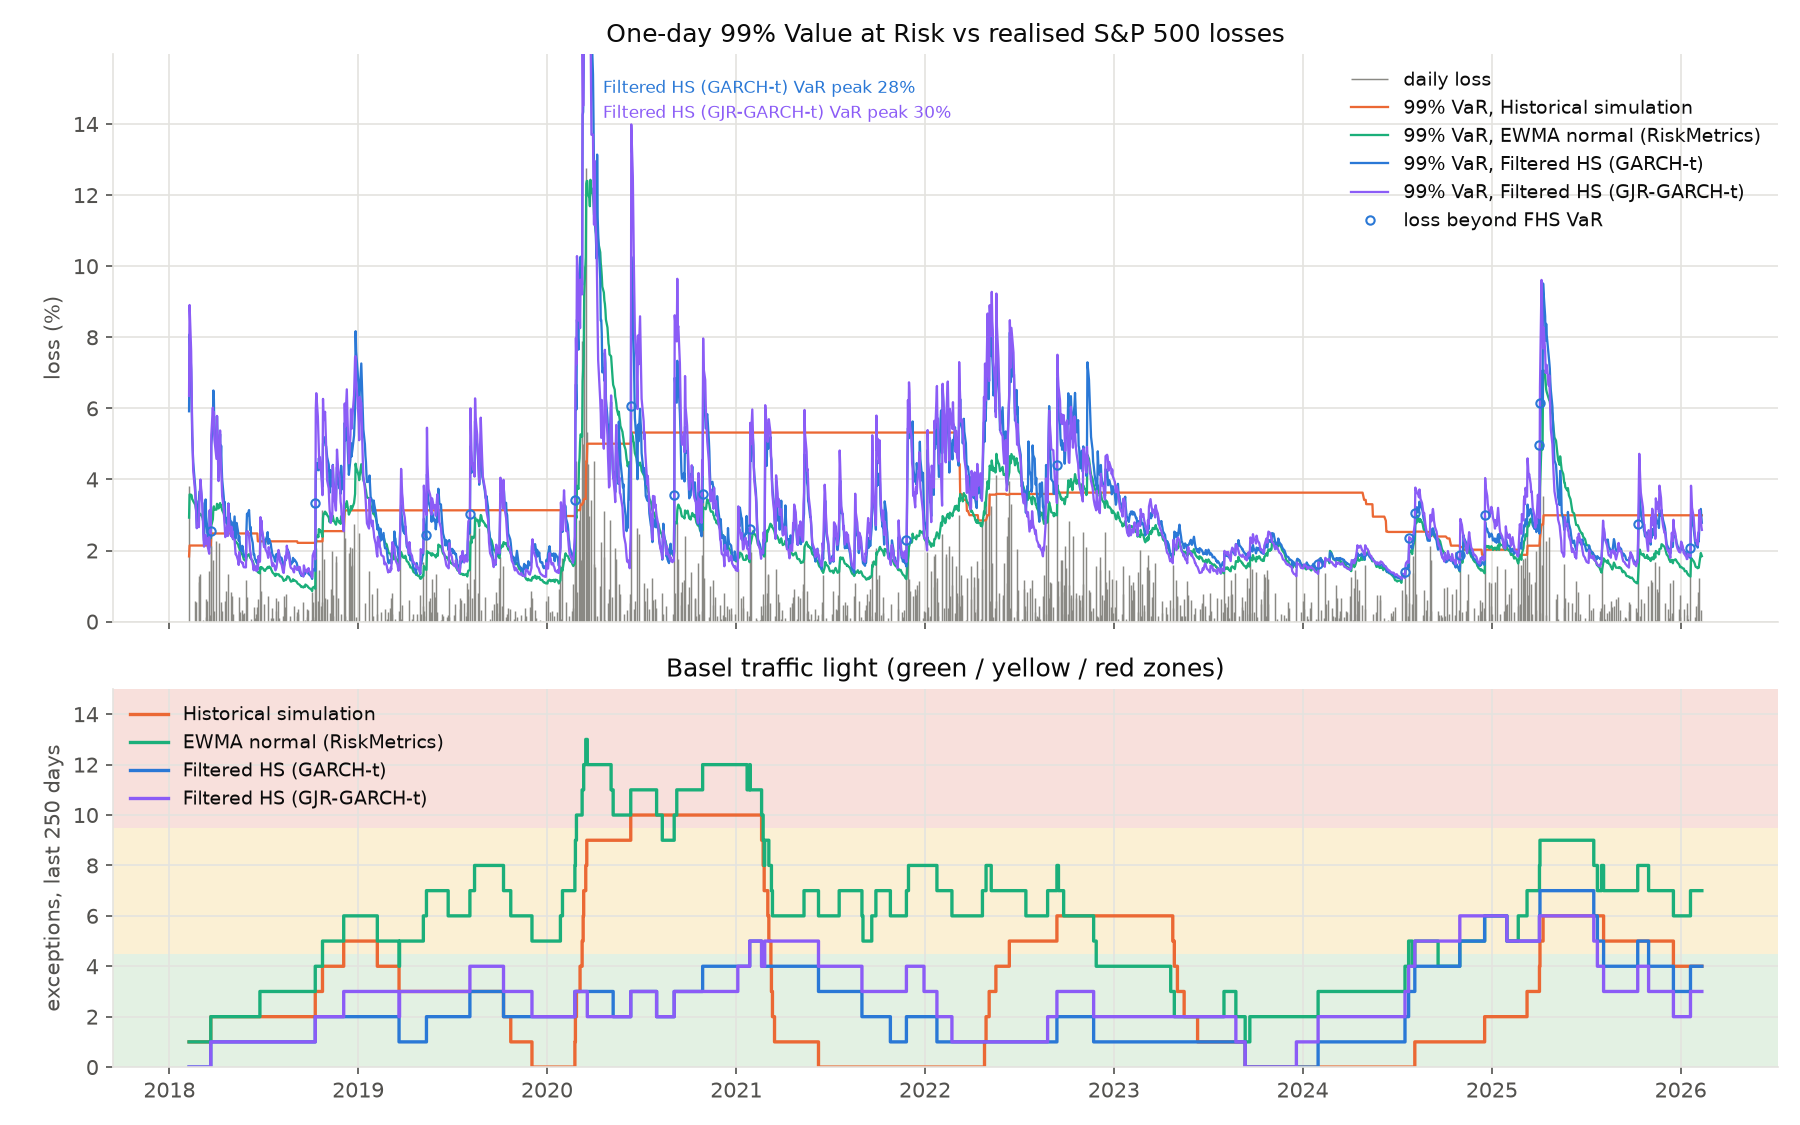
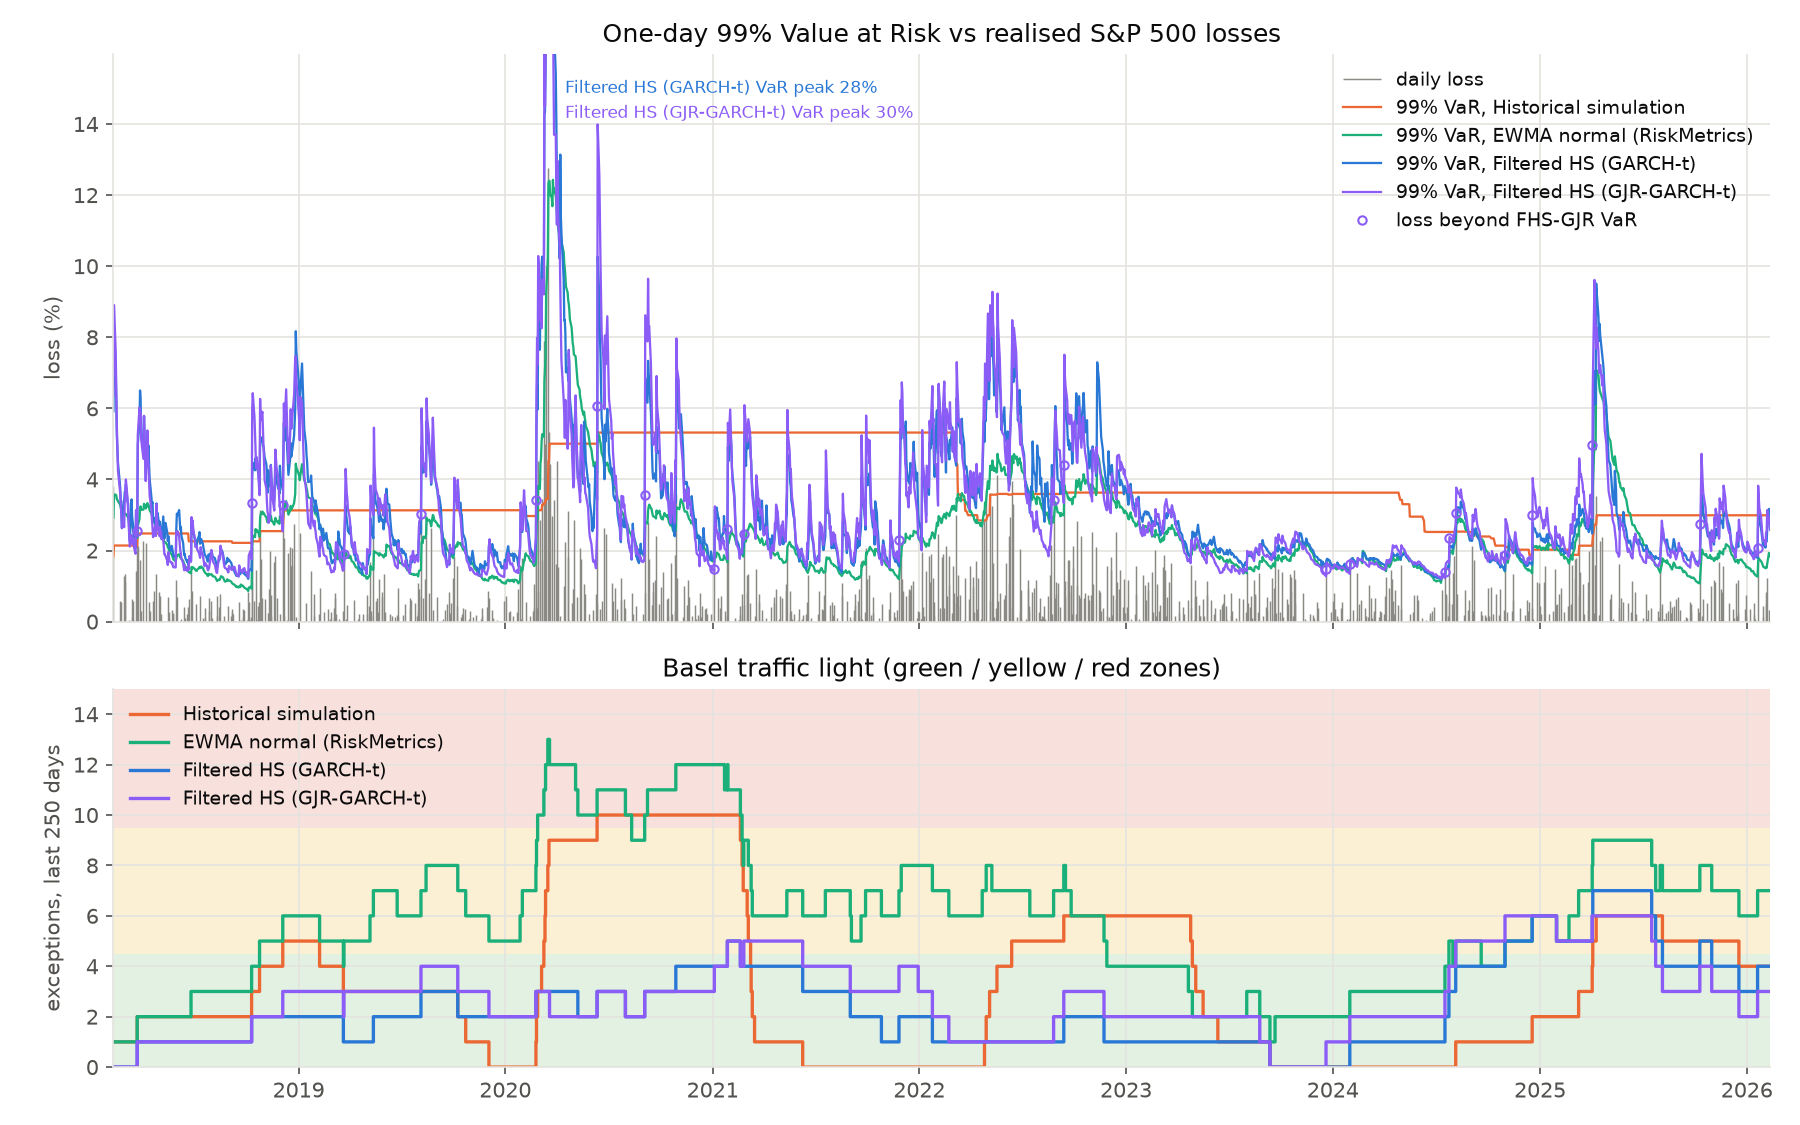
Charts: x-axis spans the backtest dates; mark FHS-GJR exceptions

diff --git a/varbt/__main__.py b/varbt/__main__.py
@@ -43,8 +43,8 @@ def plot(r, res, out):
     a1.vlines(t, 0, np.clip(loss, 0, None), color="#8a8984", lw=0.7, label="daily loss")
     for m, (f, b) in res.items():
         a1.plot(t, f["var99"] * 100, color=COLOR[m], lw=1.1, label=f"99% VaR, {MODELS[m]}")
-    fb = res["fhs"][1]["hits"]
-    a1.plot(t[fb], loss[fb], "o", ms=4, mfc="none", mec=COLOR["fhs"], label="loss beyond FHS VaR")
+    fb = res["fhs_gjr"][1]["hits"]
+    a1.plot(t[fb], loss[fb], "o", ms=4, mfc="none", mec=COLOR["fhs_gjr"], label="loss beyond FHS-GJR VaR")
     top = loss.max() * 1.25
     peak_right, n_peaks = False, 0
     for m, (f, b) in res.items():  # label any VaR peak cut off by the axis, stacked
@@ -54,7 +54,8 @@ def plot(r, res, out):
                         xytext=(8, -4 - 12 * n_peaks), textcoords="offset points", fontsize=8, color=COLOR[m], va="top")
             peak_right |= i > len(t) / 2
             n_peaks += 1
-    a1.set(ylabel="loss (%)", title="One-day 99% Value at Risk vs realised S&P 500 losses", ylim=(0, top))
+    a1.set(ylabel="loss (%)", title="One-day 99% Value at Risk vs realised S&P 500 losses", ylim=(0, top),
+           xlim=(t[0], t[-1]))
     a1.legend(frameon=False, fontsize=9, loc="upper left" if peak_right else "upper right")
 
     g, y = traffic_light_limits()
